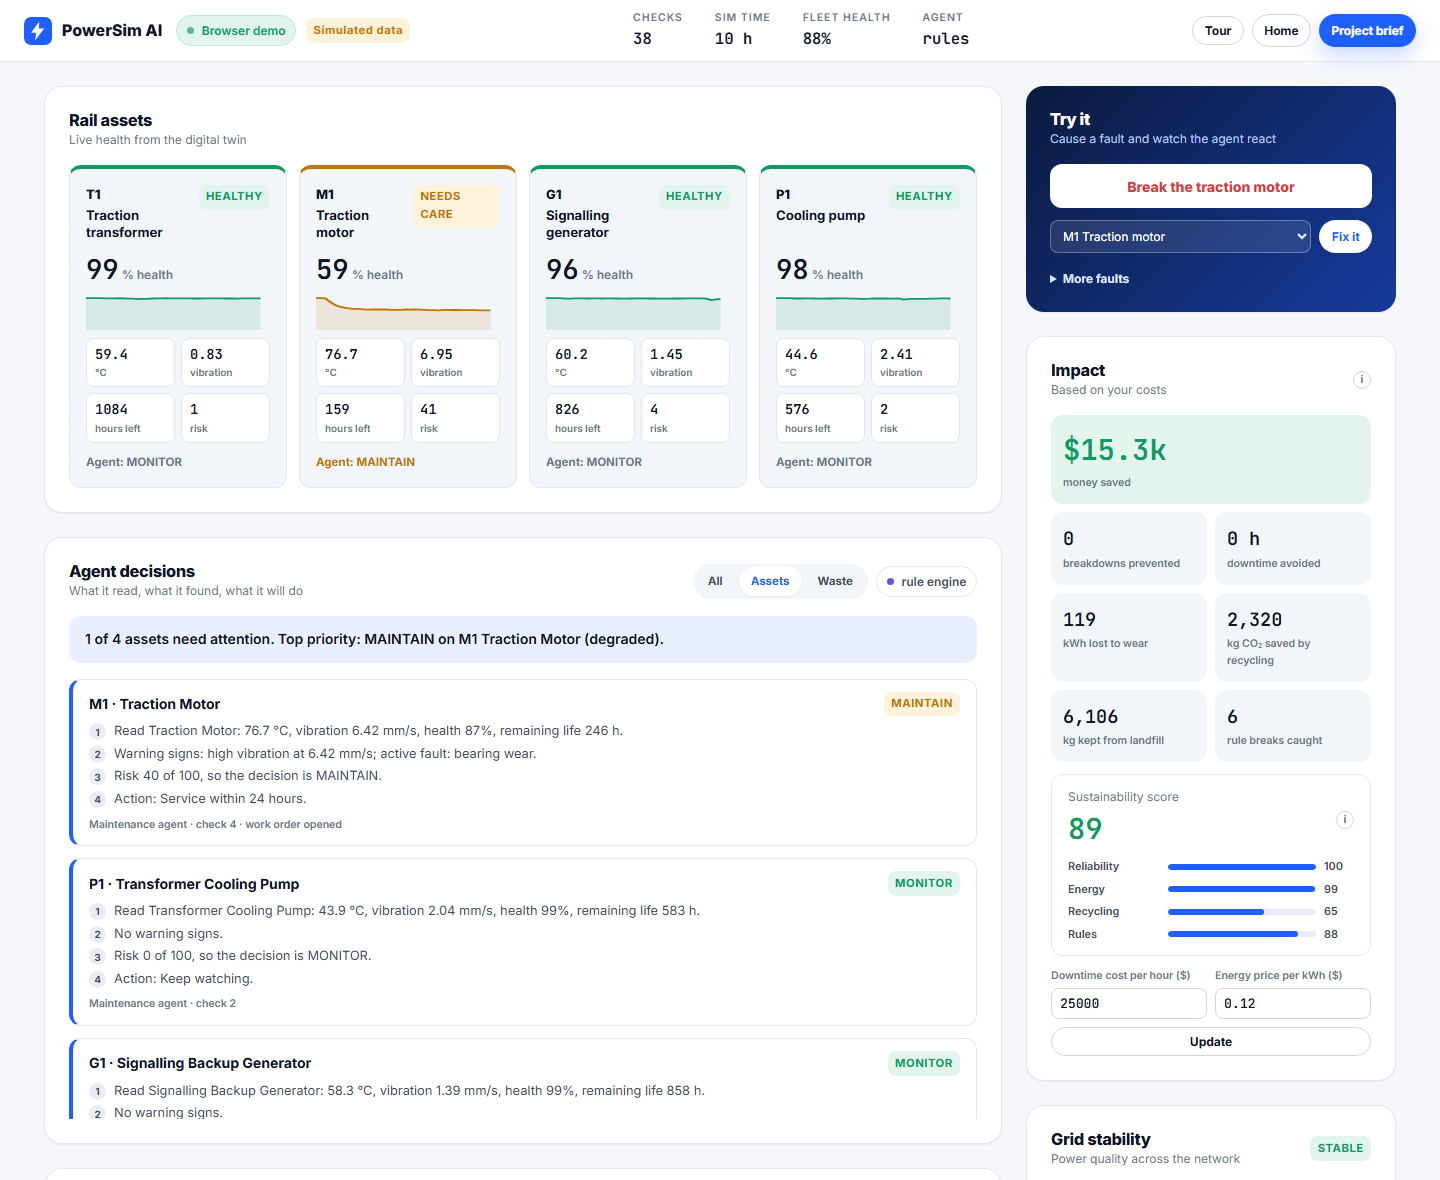
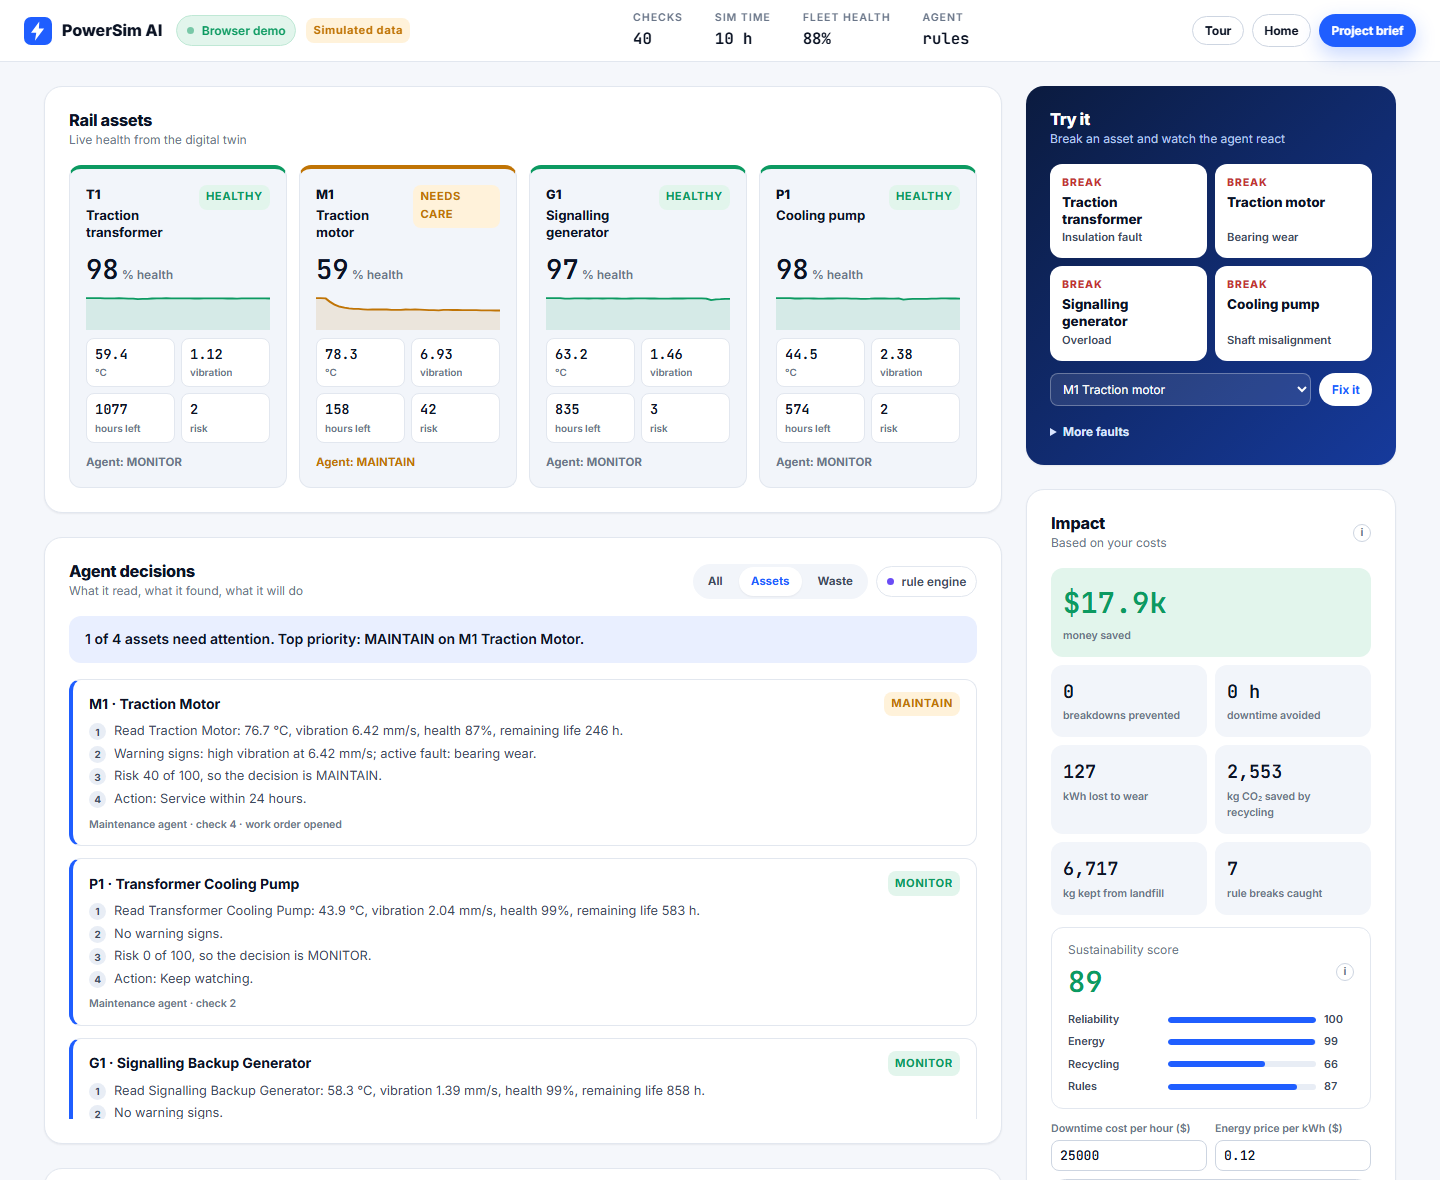
feat(dashboard): add a Break button for every rail asset
The Try it panel could only break the traction motor. It now has a
Break button for each of the four assets, each adding the most typical
fault for that kind of machine: insulation fault on the transformer,
bearing wear on the motor, overload on the signalling generator and
shaft misalignment on the cooling pump.

Pressing one switches the decisions to Assets, points Fix it at that
asset, pulses its card and, when the layout has stacked the card out
of view, scrolls to it (instant for reduced motion). The tour step,
README line and README screenshot follow the new controls. The panel
selects get accessible names.

diff --git a/public/dashboard.html b/public/dashboard.html
@@ -91,8 +91,14 @@
     .try { background: linear-gradient(135deg, var(--navy), #163a9c); color: #fff; border: 0; }
     .try h3 { color: #fff; }
     .try .panel-sub { color: #b8c8ef; }
-    .bigbtn { width: 100%; padding: 0.9em 1em; font-size: var(--fs-sm); background: #fff; color: var(--crit); border-radius: var(--r-md); font-weight: 750; }
-    .bigbtn:hover { background: #fff3f3; }
+    .breaks { display: grid; grid-template-columns: repeat(2, minmax(0, 1fr)); gap: var(--s-2); }
+    .brk { display: flex; flex-direction: column; align-items: flex-start; gap: 2px; padding: 10px 11px; background: #fff; border: 1px solid transparent; border-radius: var(--r-md); font: inherit; text-align: left; cursor: pointer; transition: background .15s, transform .15s; }
+    .brk:hover, .brk.hit { background: #fff3f3; }
+    .brk:active { transform: scale(0.98); }
+    .brk:focus-visible { outline: 3px solid #9db8ff; outline-offset: 2px; }
+    .brk-v { font-size: 0.66rem; font-weight: 800; letter-spacing: .08em; text-transform: uppercase; color: #c23434; }
+    .brk-n { font-size: 0.84rem; font-weight: 750; color: var(--text-0); line-height: 1.25; }
+    .brk-f { font-size: 0.7rem; font-weight: 600; color: var(--text-1); margin-top: auto; }
     .try details { margin-top: var(--s-4); }
     .try summary { cursor: pointer; font-size: var(--fs-xs); font-weight: 650; color: #dbe6ff; }
     .ctl-row { display: flex; gap: var(--s-2); margin-top: var(--s-3); flex-wrap: wrap; }
@@ -232,17 +238,17 @@
       <!-- SIDE -->
       <div class="stack" style="gap:var(--s-5)">
         <div class="panel try" id="controls-panel">
-          <div class="panel-h"><div><h3>Try it</h3><div class="panel-sub">Cause a fault and watch the agent react</div></div></div>
-          <button class="btn bigbtn" id="btn-break">Break the traction motor</button>
+          <div class="panel-h"><div><h3>Try it</h3><div class="panel-sub">Break an asset and watch the agent react</div></div></div>
+          <div class="breaks" id="break-grid"></div>
           <div class="ctl-row">
-            <select id="maint-asset"><option value="M1">M1 Traction motor</option><option value="T1">T1 Traction transformer</option><option value="G1">G1 Signalling generator</option><option value="P1">P1 Cooling pump</option></select>
+            <select id="maint-asset" aria-label="Asset to fix"><option value="M1">M1 Traction motor</option><option value="T1">T1 Traction transformer</option><option value="G1">G1 Signalling generator</option><option value="P1">P1 Cooling pump</option></select>
             <button class="btn btn-light btn-sm" id="btn-maint">Fix it</button>
           </div>
           <details>
             <summary>More faults</summary>
             <div class="ctl-row">
-              <select id="fail-asset"><option value="T1">T1 Transformer</option><option value="M1">M1 Motor</option><option value="G1">G1 Generator</option><option value="P1">P1 Pump</option></select>
-              <select id="fail-type"><option value="overload">Overload</option><option value="bearing_wear">Bearing wear</option><option value="oil_degradation">Old oil</option><option value="misalignment">Misalignment</option><option value="insulation_breakdown">Insulation fault</option></select>
+              <select id="fail-asset" aria-label="Asset"><option value="T1">T1 Transformer</option><option value="M1">M1 Motor</option><option value="G1">G1 Generator</option><option value="P1">P1 Pump</option></select>
+              <select id="fail-type" aria-label="Fault"><option value="overload">Overload</option><option value="bearing_wear">Bearing wear</option><option value="oil_degradation">Old oil</option><option value="misalignment">Shaft misalignment</option><option value="insulation_breakdown">Insulation fault</option></select>
             </div>
             <div class="ctl-row">
               <button class="btn btn-ghost btn-sm" id="btn-inject" style="flex:1">Add fault</button>
@@ -338,6 +344,13 @@
       const ASSETS = ["T1", "M1", "G1", "P1"];
       const NAMES = { T1: "Traction transformer", M1: "Traction motor", G1: "Signalling generator", P1: "Cooling pump" };
       const NOMINAL_V = { T1: 25000, M1: 1500, G1: 400, P1: 415 };
+      // The fault each "Break" button adds: the most typical one for that kind of machine.
+      const BREAKS = {
+        T1: { type: "insulation_breakdown", label: "Insulation fault" },
+        M1: { type: "bearing_wear", label: "Bearing wear" },
+        G1: { type: "overload", label: "Overload" },
+        P1: { type: "misalignment", label: "Shaft misalignment" },
+      };
       const STATE_LABEL = { normal: "Healthy", degraded: "Needs care", critical: "Critical", failed: "Failed", under_maintenance: "In service" };
       const LABEL = { monitor: "MONITOR", inspect: "INSPECT", maintain: "MAINTAIN", repair: "REPAIR", emergency: "EMERGENCY",
                       treat: "REVIEW", segregate: "SEPARATE", escalate: "ALERT" };
@@ -377,6 +390,10 @@
           </div>
           <div class="dec" id="dec-${id}">Agent: waiting</div>
         </div>`).join("");
+      document.getElementById("break-grid").innerHTML = ASSETS.map((id) => `
+        <button class="brk" id="brk-${id}" data-asset="${id}">
+          <span class="brk-v">Break</span><span class="brk-n">${NAMES[id]}</span><span class="brk-f">${BREAKS[id].label}</span>
+        </button>`).join("");
 
       function drawSpark(id, data, color) {
         const svg = document.getElementById("spark-" + id);
@@ -638,13 +655,39 @@
         document.querySelectorAll("#tabs button").forEach((b) => b.classList.toggle("on", b.dataset.f === f));
       }
       document.querySelectorAll("#tabs button").forEach((b) => b.addEventListener("click", () => setFilter(b.dataset.f)));
-      function breakMotor() { inject("M1", "bearing_wear"); setFilter("assets"); }
+      function breakAsset(id) {
+        inject(id, BREAKS[id].type);
+        setFilter("assets");
+        document.getElementById("maint-asset").value = id; // "Fix it" now targets what was just broken
+      }
+      function breakMotor() { breakAsset("M1"); }
 
-      document.getElementById("btn-break").addEventListener("click", (e) => {
-        breakMotor();
-        e.currentTarget.textContent = "Fault added. Watch the agent";
-        setTimeout(() => { document.getElementById("btn-break").textContent = "Break the traction motor"; }, 4000);
-      });
+      // Bring the broken asset's card into view (when the layout stacks it out of
+      // sight) and pulse it, so the reaction is easy to spot.
+      function showCard(id) {
+        const card = document.getElementById("ac-" + id);
+        const r = card.getBoundingClientRect();
+        if (!active && (r.top < HEADER || r.bottom > window.innerHeight)) {
+          window.scrollTo({ top: window.scrollY + r.top - HEADER - EDGE }); // smooth via CSS, instant for reduced motion
+        }
+        if (card.animate && !matchMedia("(prefers-reduced-motion: reduce)").matches) {
+          card.animate([
+            { boxShadow: "0 0 0 0 rgba(214,60,60,0)" },
+            { boxShadow: "0 0 0 5px rgba(214,60,60,0.45)", offset: 0.25 },
+            { boxShadow: "0 0 0 0 rgba(214,60,60,0)" },
+          ], { duration: 1800, easing: "ease-out" });
+        }
+      }
+
+      document.querySelectorAll("#break-grid .brk").forEach((b) => b.addEventListener("click", () => {
+        const id = b.dataset.asset;
+        breakAsset(id);
+        showCard(id);
+        b.classList.add("hit");
+        b.querySelector(".brk-v").textContent = "Fault added";
+        clearTimeout(b._reset);
+        b._reset = setTimeout(() => { b.classList.remove("hit"); b.querySelector(".brk-v").textContent = "Break"; }, 4000);
+      }));
       document.getElementById("btn-inject").addEventListener("click", () =>
         inject(document.getElementById("fail-asset").value, document.getElementById("fail-type").value));
       document.getElementById("btn-maint").addEventListener("click", () => {
@@ -693,8 +736,8 @@
           b: "These four cards are live copies of railway power assets. The big number is health. Green means healthy." },
         { el: "#ac-M1", t: "One asset up close",
           b: "Each card shows temperature, vibration, hours of life left, risk, and the agent's decision at the bottom." },
-        { el: "#btn-break", t: "Break something",
-          b: "This button adds a bearing fault to the traction motor. Press it after the tour and watch the motor card." },
+        { el: "#break-grid", t: "Break something",
+          b: "Each button adds a fault to one asset. Press one after the tour and watch its card and the agent react." },
         { el: "#trail-panel", t: "The agent explains itself",
           b: "Every decision lists what the agent read, what it found, the risk, and the action. Use the tabs to filter." },
         { el: "#waste-panel", t: "Waste and rules",

diff --git a/static/dashboard.html b/static/dashboard.html
@@ -91,8 +91,14 @@
     .try { background: linear-gradient(135deg, var(--navy), #163a9c); color: #fff; border: 0; }
     .try h3 { color: #fff; }
     .try .panel-sub { color: #b8c8ef; }
-    .bigbtn { width: 100%; padding: 0.9em 1em; font-size: var(--fs-sm); background: #fff; color: var(--crit); border-radius: var(--r-md); font-weight: 750; }
-    .bigbtn:hover { background: #fff3f3; }
+    .breaks { display: grid; grid-template-columns: repeat(2, minmax(0, 1fr)); gap: var(--s-2); }
+    .brk { display: flex; flex-direction: column; align-items: flex-start; gap: 2px; padding: 10px 11px; background: #fff; border: 1px solid transparent; border-radius: var(--r-md); font: inherit; text-align: left; cursor: pointer; transition: background .15s, transform .15s; }
+    .brk:hover, .brk.hit { background: #fff3f3; }
+    .brk:active { transform: scale(0.98); }
+    .brk:focus-visible { outline: 3px solid #9db8ff; outline-offset: 2px; }
+    .brk-v { font-size: 0.66rem; font-weight: 800; letter-spacing: .08em; text-transform: uppercase; color: #c23434; }
+    .brk-n { font-size: 0.84rem; font-weight: 750; color: var(--text-0); line-height: 1.25; }
+    .brk-f { font-size: 0.7rem; font-weight: 600; color: var(--text-1); margin-top: auto; }
     .try details { margin-top: var(--s-4); }
     .try summary { cursor: pointer; font-size: var(--fs-xs); font-weight: 650; color: #dbe6ff; }
     .ctl-row { display: flex; gap: var(--s-2); margin-top: var(--s-3); flex-wrap: wrap; }
@@ -232,17 +238,17 @@
       <!-- SIDE -->
       <div class="stack" style="gap:var(--s-5)">
         <div class="panel try" id="controls-panel">
-          <div class="panel-h"><div><h3>Try it</h3><div class="panel-sub">Cause a fault and watch the agent react</div></div></div>
-          <button class="btn bigbtn" id="btn-break">Break the traction motor</button>
+          <div class="panel-h"><div><h3>Try it</h3><div class="panel-sub">Break an asset and watch the agent react</div></div></div>
+          <div class="breaks" id="break-grid"></div>
           <div class="ctl-row">
-            <select id="maint-asset"><option value="M1">M1 Traction motor</option><option value="T1">T1 Traction transformer</option><option value="G1">G1 Signalling generator</option><option value="P1">P1 Cooling pump</option></select>
+            <select id="maint-asset" aria-label="Asset to fix"><option value="M1">M1 Traction motor</option><option value="T1">T1 Traction transformer</option><option value="G1">G1 Signalling generator</option><option value="P1">P1 Cooling pump</option></select>
             <button class="btn btn-light btn-sm" id="btn-maint">Fix it</button>
           </div>
           <details>
             <summary>More faults</summary>
             <div class="ctl-row">
-              <select id="fail-asset"><option value="T1">T1 Transformer</option><option value="M1">M1 Motor</option><option value="G1">G1 Generator</option><option value="P1">P1 Pump</option></select>
-              <select id="fail-type"><option value="overload">Overload</option><option value="bearing_wear">Bearing wear</option><option value="oil_degradation">Old oil</option><option value="misalignment">Misalignment</option><option value="insulation_breakdown">Insulation fault</option></select>
+              <select id="fail-asset" aria-label="Asset"><option value="T1">T1 Transformer</option><option value="M1">M1 Motor</option><option value="G1">G1 Generator</option><option value="P1">P1 Pump</option></select>
+              <select id="fail-type" aria-label="Fault"><option value="overload">Overload</option><option value="bearing_wear">Bearing wear</option><option value="oil_degradation">Old oil</option><option value="misalignment">Shaft misalignment</option><option value="insulation_breakdown">Insulation fault</option></select>
             </div>
             <div class="ctl-row">
               <button class="btn btn-ghost btn-sm" id="btn-inject" style="flex:1">Add fault</button>
@@ -338,6 +344,13 @@
       const ASSETS = ["T1", "M1", "G1", "P1"];
       const NAMES = { T1: "Traction transformer", M1: "Traction motor", G1: "Signalling generator", P1: "Cooling pump" };
       const NOMINAL_V = { T1: 25000, M1: 1500, G1: 400, P1: 415 };
+      // The fault each "Break" button adds: the most typical one for that kind of machine.
+      const BREAKS = {
+        T1: { type: "insulation_breakdown", label: "Insulation fault" },
+        M1: { type: "bearing_wear", label: "Bearing wear" },
+        G1: { type: "overload", label: "Overload" },
+        P1: { type: "misalignment", label: "Shaft misalignment" },
+      };
       const STATE_LABEL = { normal: "Healthy", degraded: "Needs care", critical: "Critical", failed: "Failed", under_maintenance: "In service" };
       const LABEL = { monitor: "MONITOR", inspect: "INSPECT", maintain: "MAINTAIN", repair: "REPAIR", emergency: "EMERGENCY",
                       treat: "REVIEW", segregate: "SEPARATE", escalate: "ALERT" };
@@ -377,6 +390,10 @@
           </div>
           <div class="dec" id="dec-${id}">Agent: waiting</div>
         </div>`).join("");
+      document.getElementById("break-grid").innerHTML = ASSETS.map((id) => `
+        <button class="brk" id="brk-${id}" data-asset="${id}">
+          <span class="brk-v">Break</span><span class="brk-n">${NAMES[id]}</span><span class="brk-f">${BREAKS[id].label}</span>
+        </button>`).join("");
 
       function drawSpark(id, data, color) {
         const svg = document.getElementById("spark-" + id);
@@ -638,13 +655,39 @@
         document.querySelectorAll("#tabs button").forEach((b) => b.classList.toggle("on", b.dataset.f === f));
       }
       document.querySelectorAll("#tabs button").forEach((b) => b.addEventListener("click", () => setFilter(b.dataset.f)));
-      function breakMotor() { inject("M1", "bearing_wear"); setFilter("assets"); }
+      function breakAsset(id) {
+        inject(id, BREAKS[id].type);
+        setFilter("assets");
+        document.getElementById("maint-asset").value = id; // "Fix it" now targets what was just broken
+      }
+      function breakMotor() { breakAsset("M1"); }
 
-      document.getElementById("btn-break").addEventListener("click", (e) => {
-        breakMotor();
-        e.currentTarget.textContent = "Fault added. Watch the agent";
-        setTimeout(() => { document.getElementById("btn-break").textContent = "Break the traction motor"; }, 4000);
-      });
+      // Bring the broken asset's card into view (when the layout stacks it out of
+      // sight) and pulse it, so the reaction is easy to spot.
+      function showCard(id) {
+        const card = document.getElementById("ac-" + id);
+        const r = card.getBoundingClientRect();
+        if (!active && (r.top < HEADER || r.bottom > window.innerHeight)) {
+          window.scrollTo({ top: window.scrollY + r.top - HEADER - EDGE }); // smooth via CSS, instant for reduced motion
+        }
+        if (card.animate && !matchMedia("(prefers-reduced-motion: reduce)").matches) {
+          card.animate([
+            { boxShadow: "0 0 0 0 rgba(214,60,60,0)" },
+            { boxShadow: "0 0 0 5px rgba(214,60,60,0.45)", offset: 0.25 },
+            { boxShadow: "0 0 0 0 rgba(214,60,60,0)" },
+          ], { duration: 1800, easing: "ease-out" });
+        }
+      }
+
+      document.querySelectorAll("#break-grid .brk").forEach((b) => b.addEventListener("click", () => {
+        const id = b.dataset.asset;
+        breakAsset(id);
+        showCard(id);
+        b.classList.add("hit");
+        b.querySelector(".brk-v").textContent = "Fault added";
+        clearTimeout(b._reset);
+        b._reset = setTimeout(() => { b.classList.remove("hit"); b.querySelector(".brk-v").textContent = "Break"; }, 4000);
+      }));
       document.getElementById("btn-inject").addEventListener("click", () =>
         inject(document.getElementById("fail-asset").value, document.getElementById("fail-type").value));
       document.getElementById("btn-maint").addEventListener("click", () => {
@@ -693,8 +736,8 @@
           b: "These four cards are live copies of railway power assets. The big number is health. Green means healthy." },
         { el: "#ac-M1", t: "One asset up close",
           b: "Each card shows temperature, vibration, hours of life left, risk, and the agent's decision at the bottom." },
-        { el: "#btn-break", t: "Break something",
-          b: "This button adds a bearing fault to the traction motor. Press it after the tour and watch the motor card." },
+        { el: "#break-grid", t: "Break something",
+          b: "Each button adds a fault to one asset. Press one after the tour and watch its card and the agent react." },
         { el: "#trail-panel", t: "The agent explains itself",
           b: "Every decision lists what the agent read, what it found, the risk, and the action. Use the tabs to filter." },
         { el: "#waste-panel", t: "Waste and rules",

diff --git a/README.md b/README.md
@@ -42,7 +42,7 @@ It repeats every 2 seconds.
 
 **[powersim-ai.vercel.app](https://powersim-ai.vercel.app)** · no sign up, runs in your browser.
 
-Open the dashboard, press **Break the traction motor**, and watch the agent react.
+Open the dashboard, press **Break** on any of the four assets, and watch the agent react.
 
 <p align="center">
   <img src="docs/assets/dashboard.png" alt="PowerSim AI live dashboard" width="100%">
